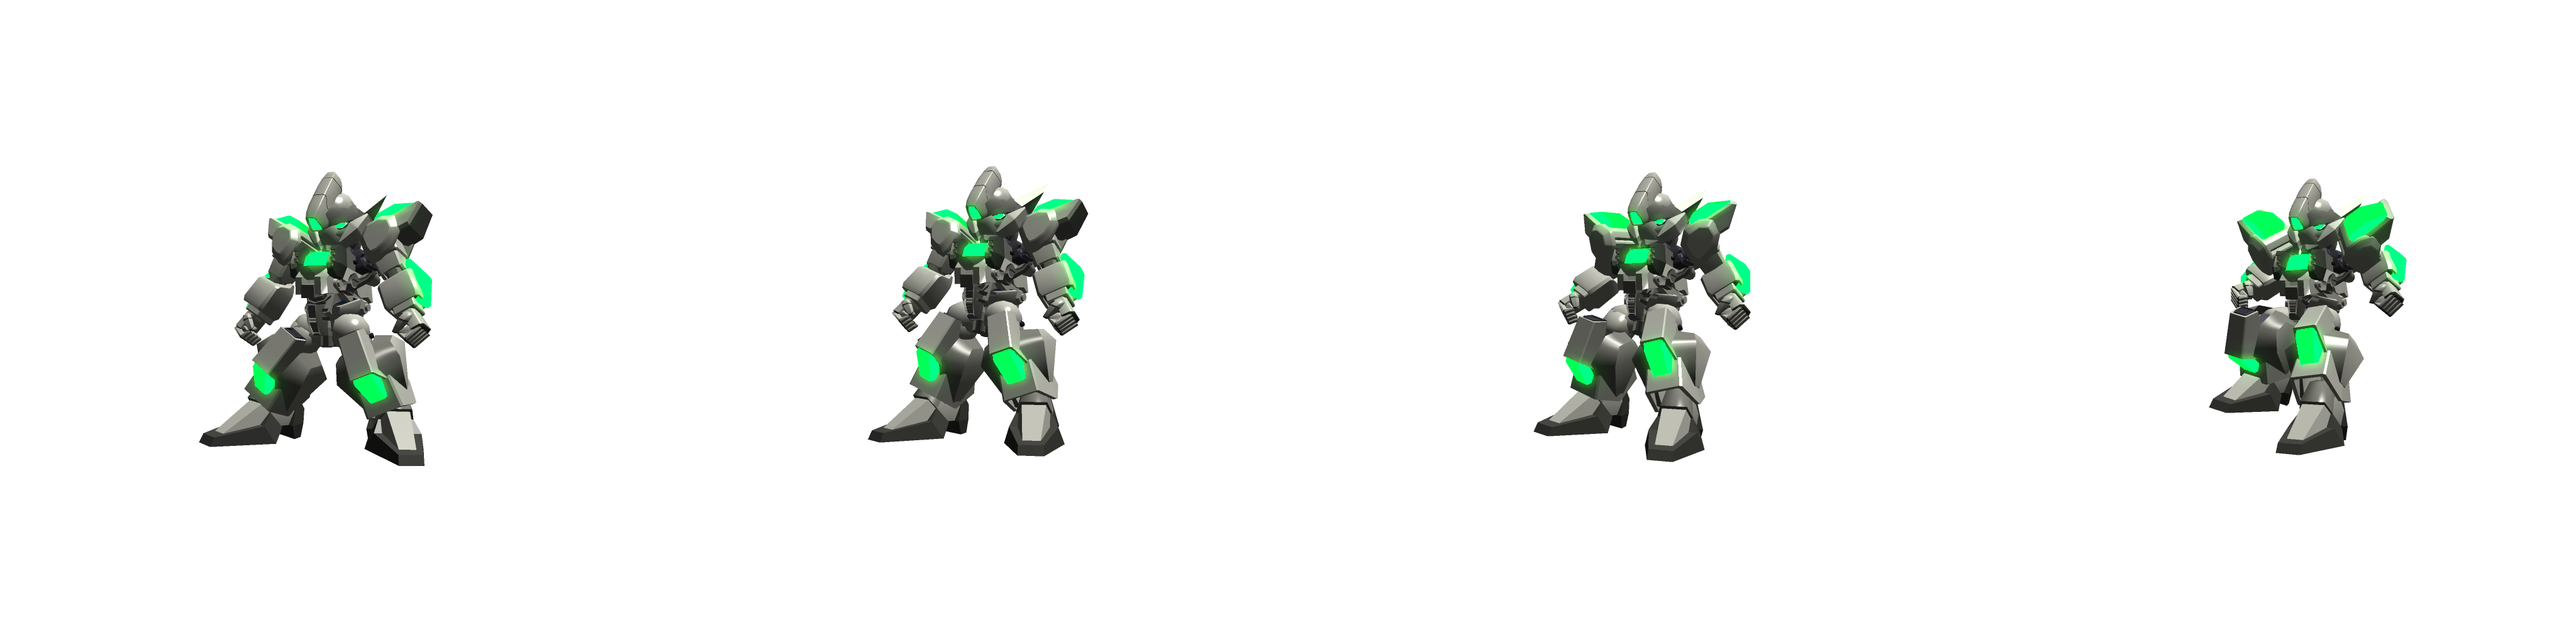
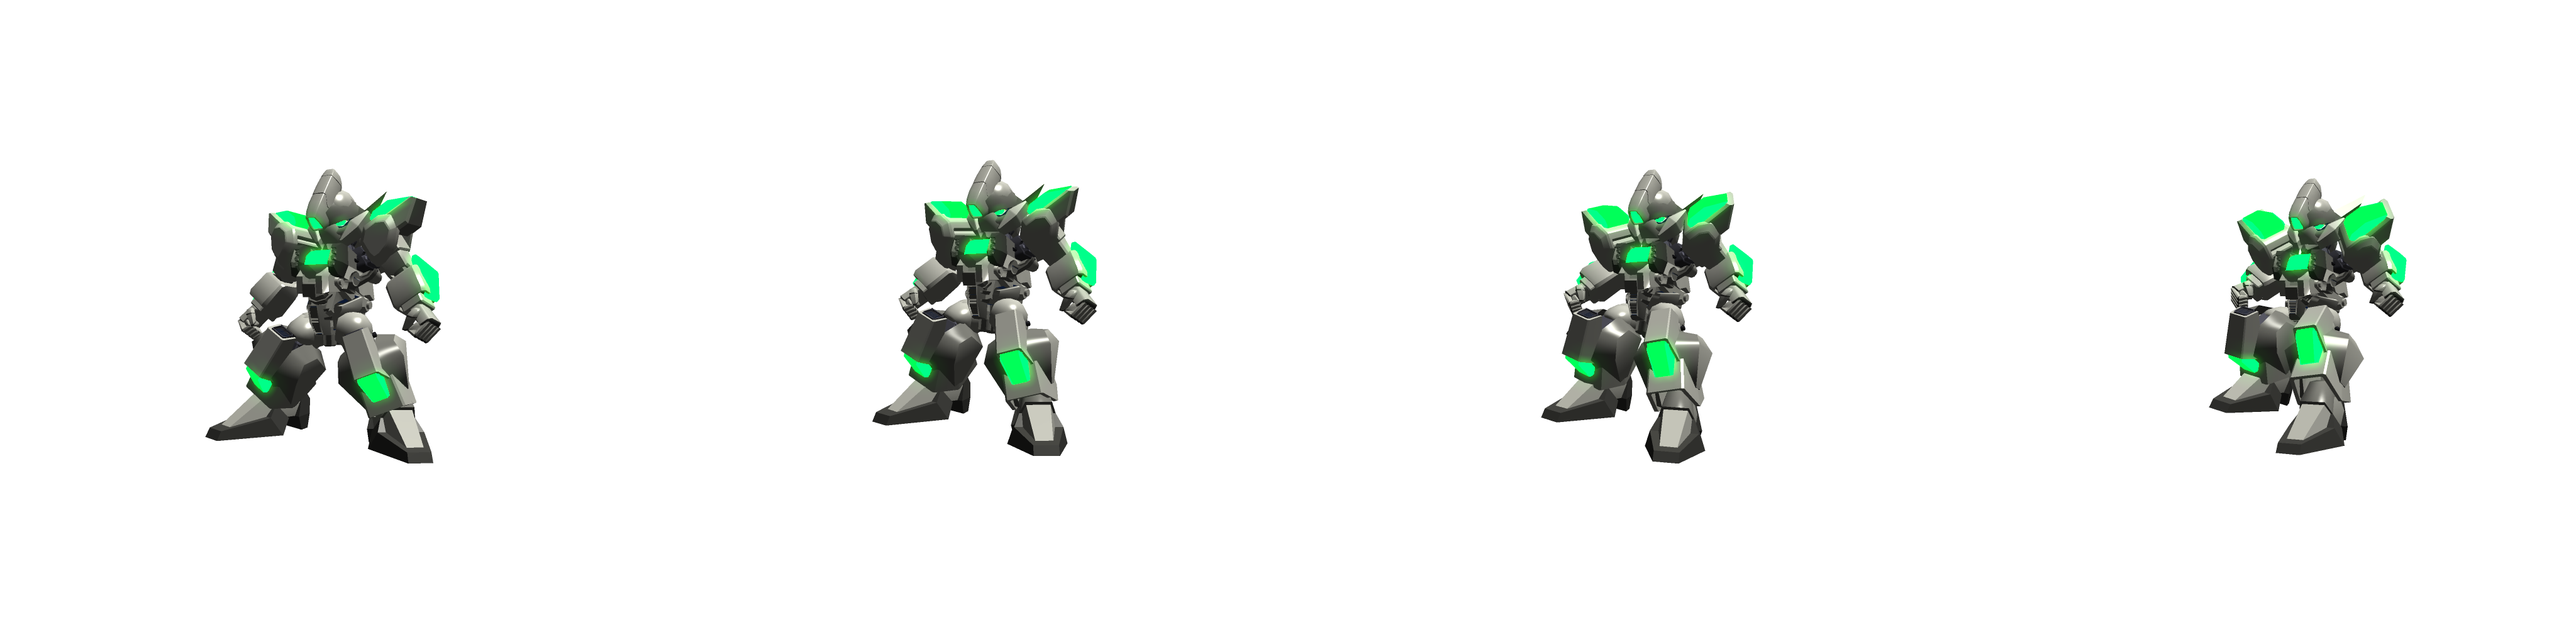
シンブレイバーの回避モーションを調整した

Changed region(s): [[0.3125, 0.25, 0.4375, 0.7188], [0.0625, 0.2812, 0.1875, 0.7188], [0.5938, 0.2812, 0.6875, 0.7188]]

diff --git a/src/js/game-object/armdozer/shin-braver/animation/avoid-to-stand.js b/src/js/game-object/armdozer/shin-braver/animation/avoid-to-stand.js
@@ -5,7 +5,6 @@ import {process} from "../../../../animation/process";
 import {tween} from "../../../../animation/tween";
 import type {ShinBraverModel} from "../model/shin-braver-model";
 import {ShinBraverSounds} from "../sounds/shin-braver-sounds";
-import {all} from "../../../../animation/all";
 
 /** 避け -> 立ち */
 export function avoidToStand(model: ShinBraverModel, sounds: ShinBraverSounds): Animate {
@@ -14,10 +13,7 @@ export function avoidToStand(model: ShinBraverModel, sounds: ShinBraverSounds): 
     model.animation.frame = 1;
     sounds.motor.play();
   })
-    .chain(all(
-      tween(model.position, t => t.to({x: '-40'}, 300)),
-      tween(model.animation, t => t.to({frame: 0}, 300))
-    ))
+    .chain(tween(model.animation, t => t.to({frame: 0}, 300)))
     .chain(process(() => {
       model.animation.type = 'STAND';
       model.animation.frame = 0;

diff --git a/src/js/game-object/armdozer/shin-braver/animation/avoid.js b/src/js/game-object/armdozer/shin-braver/animation/avoid.js
@@ -5,7 +5,6 @@ import {process} from "../../../../animation/process";
 import {tween} from "../../../../animation/tween";
 import type {ShinBraverModel} from "../model/shin-braver-model";
 import {ShinBraverSounds} from "../sounds/shin-braver-sounds";
-import {all} from "../../../../animation/all";
 
 /** 避ける */
 export function avoid(model: ShinBraverModel, sounds: ShinBraverSounds): Animate {
@@ -14,8 +13,5 @@ export function avoid(model: ShinBraverModel, sounds: ShinBraverSounds): Animate
     model.animation.frame = 0;
     sounds.motor.play();
   })
-    .chain(all(
-      tween(model.position, t => t.to({x: '+40'}, 200)),
-      tween(model.animation, t => t.to({frame: 1}, 200)),
-    ));
+    .chain(tween(model.animation, t => t.to({frame: 1}, 200)));
 }
